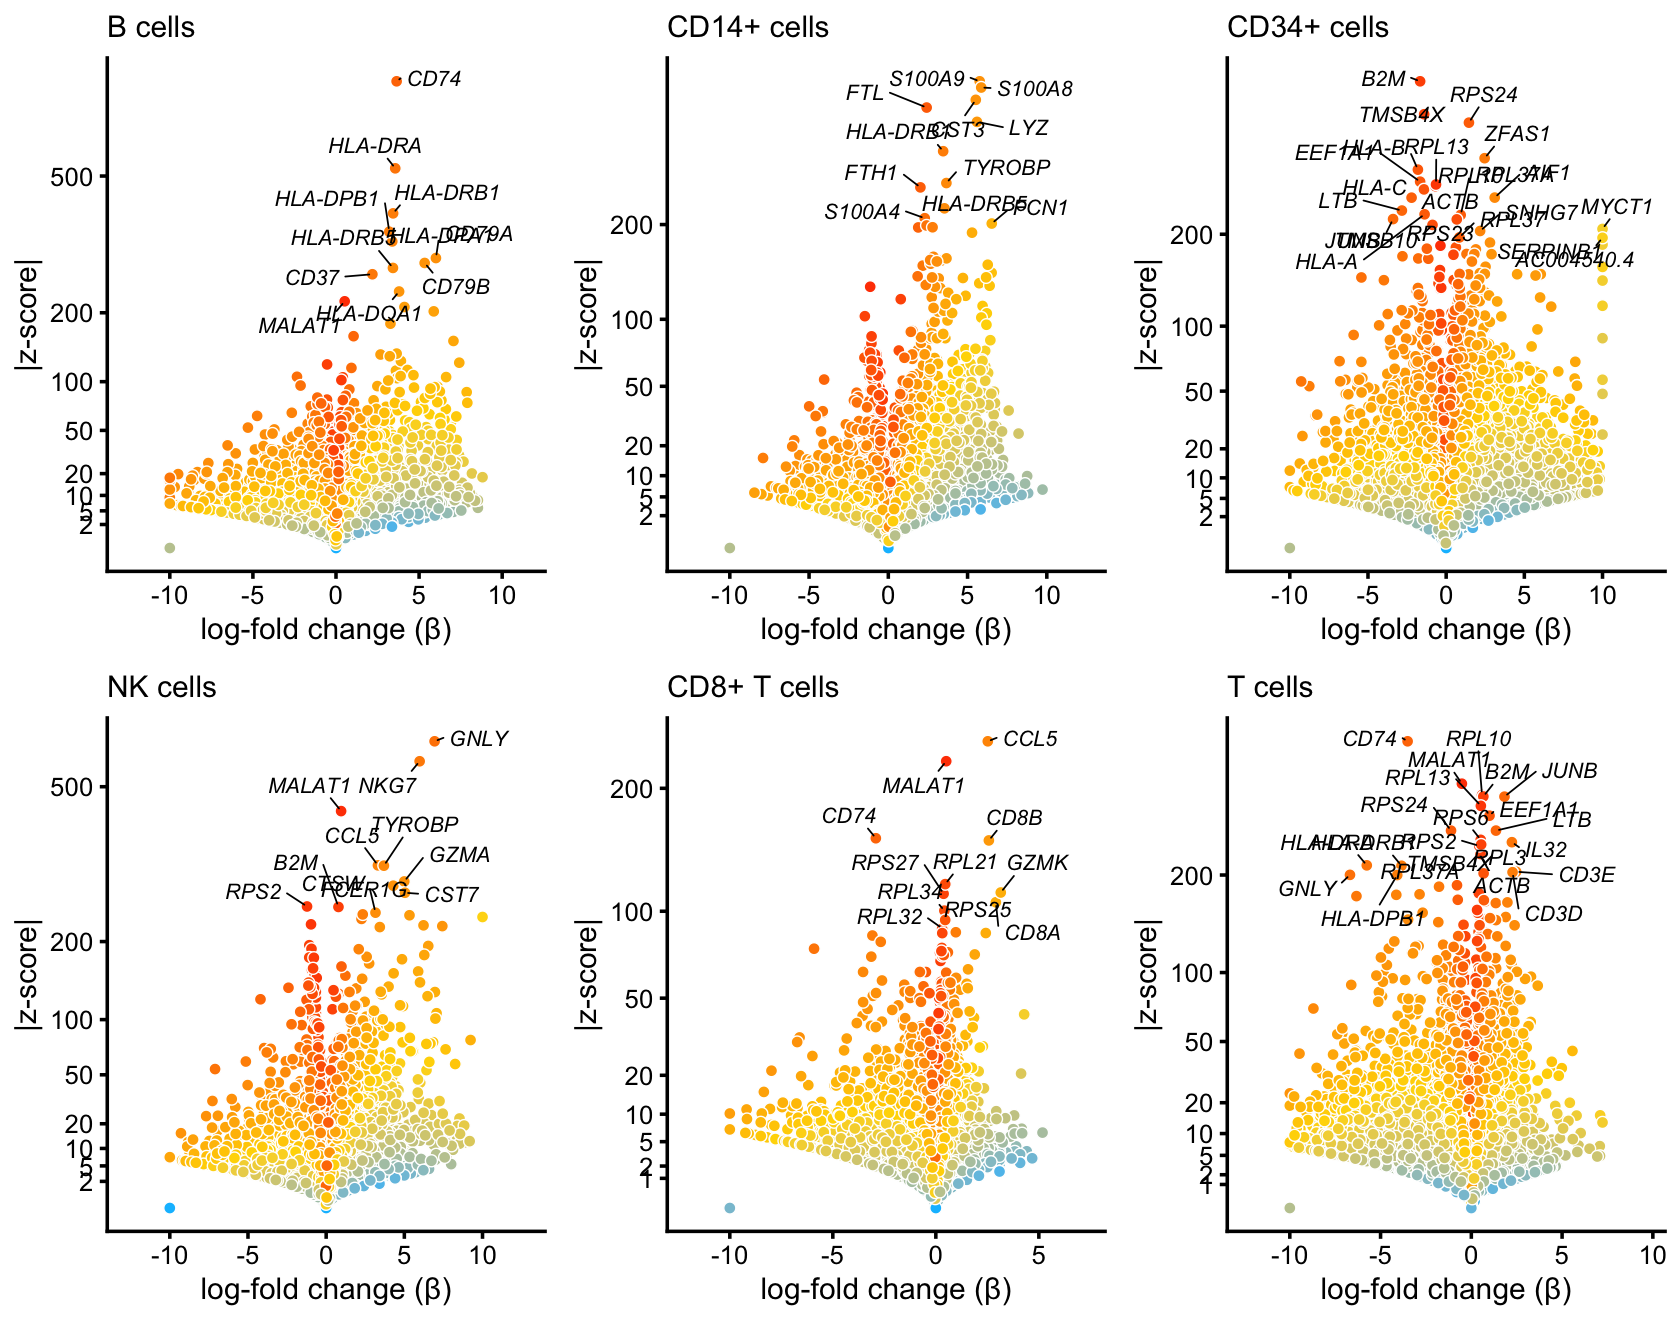
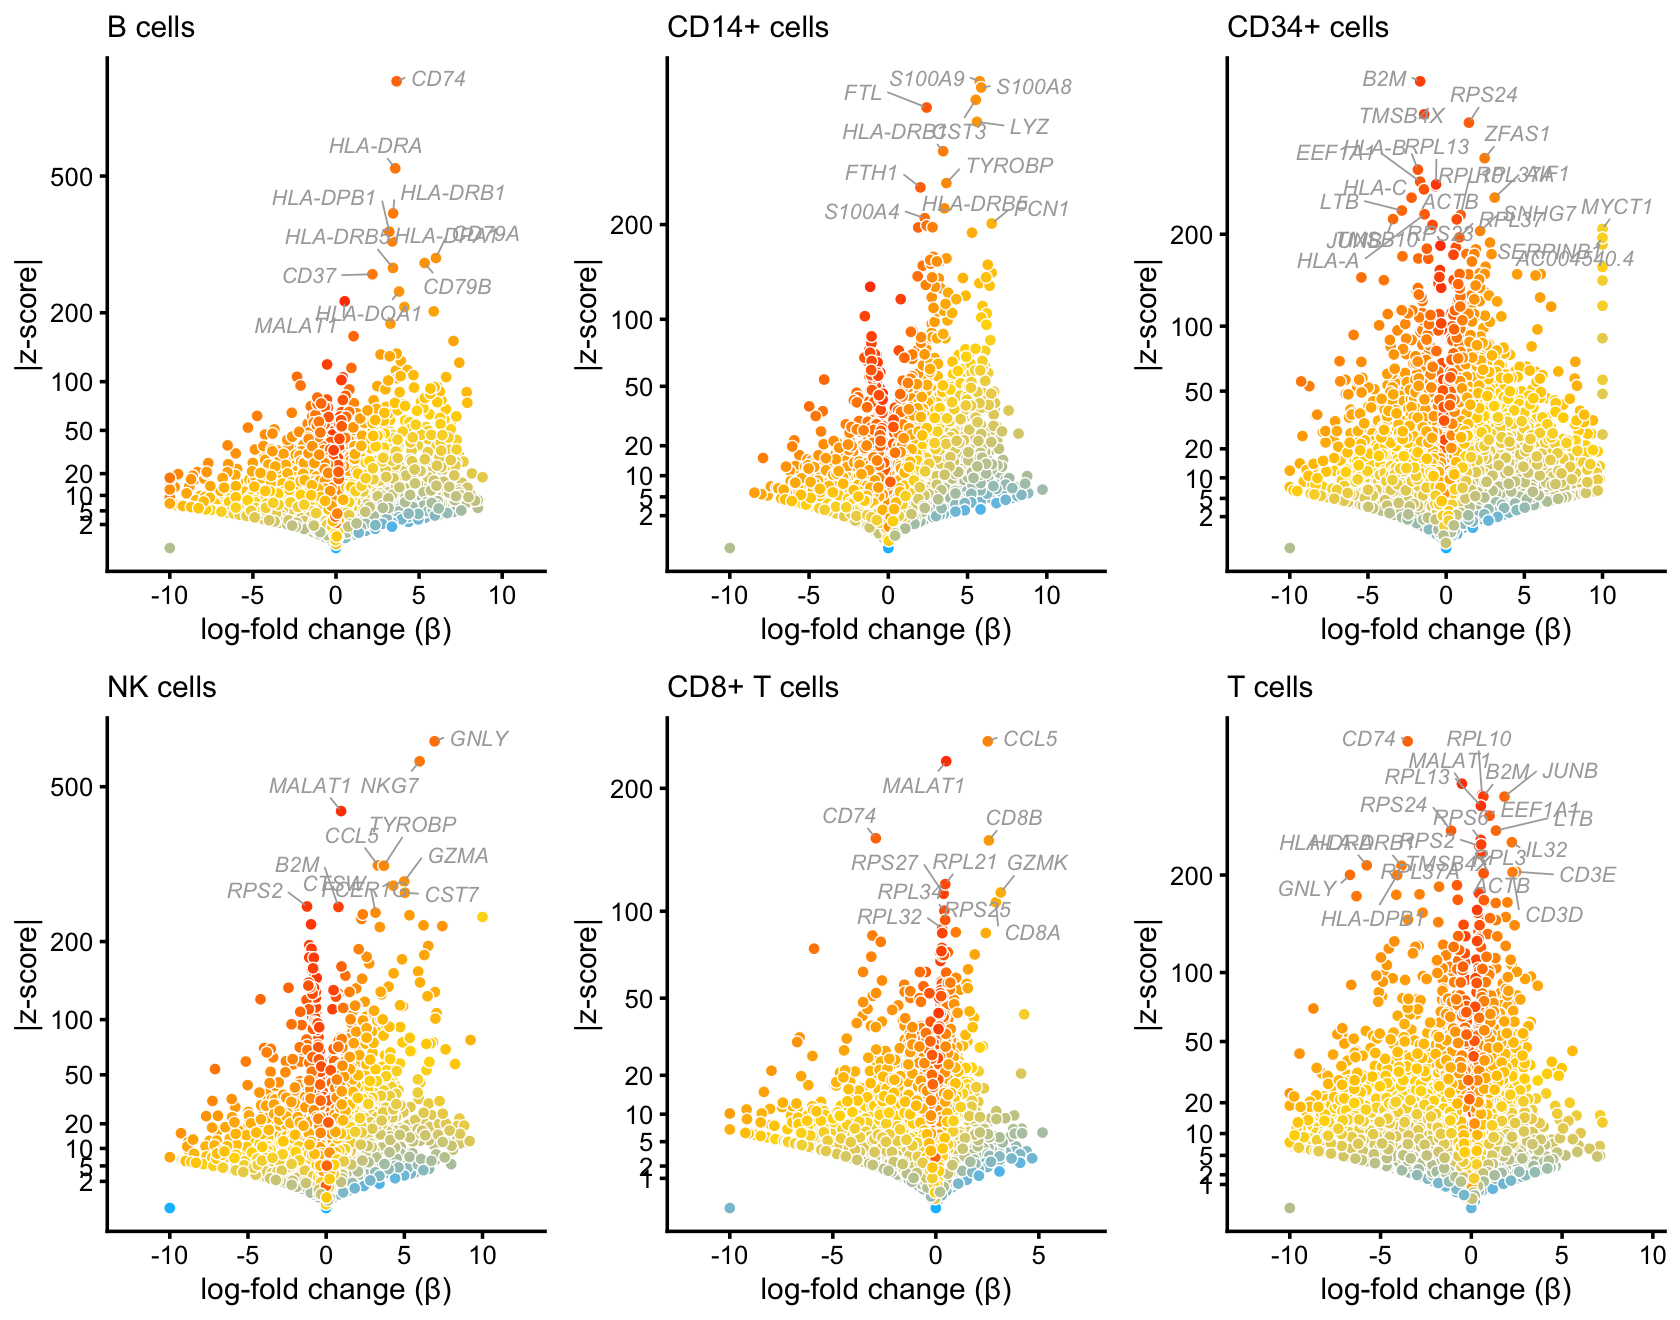
Build site.

diff --git a/docs/plots_purified_pbmc.html b/docs/plots_purified_pbmc.html
@@ -429,16 +429,16 @@ diff-count-analysis-topics
 <div class="panel panel-default">
 <div class="panel-heading">
 <p class="panel-title">
-<a data-toggle="collapse" data-parent="#workflowr-checks" href="#strongRepositoryversionstrongahrefhttpsgithubcomstephenslabsinglecelltopicstree4edefd08c545d4440ecfc1fce9c3e70dda27784btargetblank4edefd0a"> <span class="glyphicon glyphicon-ok text-success" aria-hidden="true"></span> <strong>Repository version:</strong> <a href="https://github.com/stephenslab/single-cell-topics/tree/4edefd08c545d4440ecfc1fce9c3e70dda27784b" target="_blank">4edefd0</a> </a>
+<a data-toggle="collapse" data-parent="#workflowr-checks" href="#strongRepositoryversionstrongahrefhttpsgithubcomstephenslabsinglecelltopicstree0b7339714de3e3fc87c26012b646aa1af42b06e2targetblank0b73397a"> <span class="glyphicon glyphicon-ok text-success" aria-hidden="true"></span> <strong>Repository version:</strong> <a href="https://github.com/stephenslab/single-cell-topics/tree/0b7339714de3e3fc87c26012b646aa1af42b06e2" target="_blank">0b73397</a> </a>
 </p>
 </div>
[2 lines of base64/hex data omitted]
 <div class="panel-body">
 <p>
 Great! You are using Git for version control. Tracking code development and connecting the code version to the results is critical for reproducibility.
 </p>
 <p>
-The results in this page were generated with repository version <a href="https://github.com/stephenslab/single-cell-topics/tree/4edefd08c545d4440ecfc1fce9c3e70dda27784b" target="_blank">4edefd0</a>. See the <em>Past versions</em> tab to see a history of the changes made to the R Markdown and HTML files.
+The results in this page were generated with repository version <a href="https://github.com/stephenslab/single-cell-topics/tree/0b7339714de3e3fc87c26012b646aa1af42b06e2" target="_blank">0b73397</a>. See the <em>Past versions</em> tab to see a history of the changes made to the R Markdown and HTML files.
 </p>
 <p>
 Note that you need to be careful to ensure that all relevant files for the analysis have been committed to Git prior to generating the results (you can use <code>wflow_publish</code> or <code>wflow_git_commit</code>). workflowr only checks the R Markdown file, but you know if there are other scripts or data files that it depends on. Below is the status of the Git repository when the results were generated:
@@ -463,16 +463,7 @@ Ignored files:
     Ignored:    output/pulseseq/rds/
 
 Untracked files:
-    Untracked:  .DS_Store
     Untracked:  analysis/plots_purified_pbmc_cache/
-    Untracked:  analysis/volcano_plot_purified_pbmc_bcells.html
-    Untracked:  analysis/volcano_plot_purified_pbmc_cd14.html
-    Untracked:  analysis/volcano_plot_purified_pbmc_cd34.html
-    Untracked:  analysis/volcano_plot_purified_pbmc_cd4cd8.html
-    Untracked:  analysis/volcano_plot_purified_pbmc_cd8.html
-    Untracked:  analysis/volcano_plot_purified_pbmc_dendritic.html
-    Untracked:  analysis/volcano_plot_purified_pbmc_nk.html
-    Untracked:  analysis/volcano_plot_purified_pbmc_tcells.html
     Untracked:  plots/
 
 </code></pre>
@@ -512,6 +503,40 @@ Message
 </tr>
 </thead>
 <tbody>
+<tr>
+<td>
+Rmd
+</td>
+<td>
+<a href="https://github.com/stephenslab/single-cell-topics/blob/0b7339714de3e3fc87c26012b646aa1af42b06e2/analysis/plots_purified_pbmc.Rmd" target="_blank">0b73397</a>
+</td>
+<td>
+Peter Carbonetto
+</td>
+<td>
+2021-01-29
+</td>
+<td>
+Added more volcano plots to plots_purified_pbmc analysis.
+</td>
+</tr>
+<tr>
+<td>
+html
+</td>
+<td>
+<a href="https://rawcdn.githack.com/stephenslab/single-cell-topics/42ebc62099a4d7af6134fbfea745d3d7b6cdfbf3/docs/plots_purified_pbmc.html" target="_blank">42ebc62</a>
+</td>
+<td>
+Peter Carbonetto
+</td>
+<td>
+2021-01-29
+</td>
+<td>
+Added volcano plots for FACS populations in plots_purified_pbmc
+</td>
+</tr>
 <tr>
 <td>
 Rmd
@@ -845,6 +870,17 @@ Date
 <tbody>
 <tr>
 <td>
+<a href="https://github.com/stephenslab/single-cell-topics/blob/42ebc62099a4d7af6134fbfea745d3d7b6cdfbf3/docs/figure/plots_purified_pbmc.Rmd/volcano-plots-1-1.png" target="_blank">42ebc62</a>
+</td>
+<td>
+Peter Carbonetto
+</td>
+<td>
+2021-01-29
+</td>
+</tr>
+<tr>
+<td>
 <a href="https://github.com/stephenslab/single-cell-topics/blob/a4bc59be3a7313cdcf5df4daaab580568ddcfa20/docs/figure/plots_purified_pbmc.Rmd/volcano-plots-1-1.png" target="_blank">a4bc59b</a>
 </td>
 <td>
@@ -906,10 +942,117 @@ diff_count_clusters &lt;- diff_count_clusters(samples$cluster,counts)
 </p>
 </div>
 <p>These volcano plots summarize the results of the differential expression analysis using the clusters:</p>
-<pre class="r"><code>p7 &lt;- volcano_plot(diff_count_clusters,&quot;B cells&quot;,genes$symbol,
-                   label_above_quantile = 0.998) +
+<pre class="r"><code>p7 &lt;- volcano_plot(diff_count_clusters,&quot;B&quot;,genes$symbol,
+                   label_above_quantile = 0.999) +
   guides(fill = &quot;none&quot;) +
-  ggtitle(&quot;B cells&quot;)</code></pre>
+  ggtitle(&quot;B cells&quot;)
+p8 &lt;- volcano_plot(diff_count_clusters,&quot;CD14+&quot;,genes$symbol,
+                   label_above_quantile = 0.999) +
+  guides(fill = &quot;none&quot;) +
+  ggtitle(&quot;CD14+ cells&quot;)
+p9 &lt;- volcano_plot(diff_count_clusters,&quot;CD34+&quot;,genes$symbol,
+                   label_above_quantile = 0.999) +
+  guides(fill = &quot;none&quot;) +
+  ggtitle(&quot;CD34+ cells&quot;)
+p10 &lt;- volcano_plot(diff_count_clusters,&quot;dendritic&quot;,genes$symbol,
+                    label_above_quantile = 0.999) +
+  guides(fill = &quot;none&quot;) +
+  ggtitle(&quot;dendritic cells&quot;)
+p11 &lt;- volcano_plot(diff_count_clusters,&quot;NK&quot;,genes$symbol,
+                    label_above_quantile = 0.999) +
+  guides(fill = &quot;none&quot;) +
+  ggtitle(&quot;NK cells&quot;)
+p12 &lt;- volcano_plot(diff_count_clusters,&quot;CD8+&quot;,genes$symbol,
+                    label_above_quantile = 0.999) +
+  guides(fill = &quot;none&quot;) +
+  ggtitle(&quot;CD8+ T cells&quot;)
+p13 &lt;- volcano_plot(diff_count_clusters,&quot;T&quot;,genes$symbol,
+                    label_above_quantile = 0.999) +
+  guides(fill = &quot;none&quot;) +
+  ggtitle(&quot;T cells&quot;)
+plot_grid(p7,p8,p9,p10,p11,p12,p13,nrow = 3,ncol = 3)</code></pre>
+<p><img src="figure/plots_purified_pbmc.Rmd/volcano-plots-2-1.png" width="840" style="display: block; margin: auto;" /></p>
+<p>
+<button type="button" class="btn btn-default btn-xs btn-workflowr btn-workflowr-fig" data-toggle="collapse" data-target="#fig-volcano-plots-2-1">
+Past versions of volcano-plots-2-1.png
+</button>
+</p>
+<div id="fig-volcano-plots-2-1" class="collapse">
+<div class="table-responsive">
+<table class="table table-condensed table-hover">
+<thead>
+<tr>
+<th>
+Version
+</th>
+<th>
+Author
+</th>
+<th>
+Date
+</th>
+</tr>
+</thead>
+<tbody>
+<tr>
+<td>
+<a href="https://github.com/stephenslab/single-cell-topics/blob/42ebc62099a4d7af6134fbfea745d3d7b6cdfbf3/docs/figure/plots_purified_pbmc.Rmd/volcano-plots-2-1.png" target="_blank">42ebc62</a>
+</td>
+<td>
+Peter Carbonetto
+</td>
+<td>
+2021-01-29
+</td>
+</tr>
+<tr>
+<td>
+<a href="https://github.com/stephenslab/single-cell-topics/blob/a4bc59be3a7313cdcf5df4daaab580568ddcfa20/docs/figure/plots_purified_pbmc.Rmd/volcano-plots-2-1.png" target="_blank">a4bc59b</a>
+</td>
+<td>
+Peter Carbonetto
+</td>
+<td>
+2021-01-06
+</td>
+</tr>
+<tr>
+<td>
+<a href="https://github.com/stephenslab/single-cell-topics/blob/a0b6c2b221c0b5c52edef847b0c1d655e8891a16/docs/figure/plots_purified_pbmc.Rmd/volcano-plots-2-1.png" target="_blank">a0b6c2b</a>
+</td>
+<td>
+Peter Carbonetto
+</td>
+<td>
+2021-01-06
+</td>
+</tr>
+<tr>
+<td>
+<a href="https://github.com/stephenslab/single-cell-topics/blob/04113408c52e484a058dfa1525a28dfb9f86d646/docs/figure/plots_purified_pbmc.Rmd/volcano-plots-2-1.png" target="_blank">0411340</a>
+</td>
+<td>
+Peter Carbonetto
+</td>
+<td>
+2021-01-06
+</td>
+</tr>
+<tr>
+<td>
+<a href="https://github.com/stephenslab/single-cell-topics/blob/fad8e3d9888206e882551f96333364e6203b6599/docs/figure/plots_purified_pbmc.Rmd/volcano-plots-2-1.png" target="_blank">fad8e3d</a>
+</td>
+<td>
+Peter Carbonetto
+</td>
+<td>
+2021-01-05
+</td>
+</tr>
+</tbody>
+</table>
+</div>
+</div>
 <p>Perform differential expression analysis using the multinomial topic model, after removing the dendritic cells cluster, and after merging the two T-cell topics:</p>
 <pre class="r"><code>rows &lt;- which(samples$cluster != &quot;dendritic&quot;)
 fit_merged &lt;- select_loadings(fit,loadings = rows)
@@ -1024,7 +1167,7 @@ plot_grid(p10,p11,p12,p13,p14,nrow = 3,ncol = 2)</code></pre>
 # [1] stats     graphics  grDevices utils     datasets  methods   base     
 # 
 # other attached packages:
-# [1] cowplot_1.0.0     ggrepel_0.9.0     ggplot2_3.3.0     fastTopics_0.4-26
+# [1] cowplot_1.0.0     ggrepel_0.9.0     ggplot2_3.3.0     fastTopics_0.4-29
 # [5] Matrix_1.2-18    
 # 
 # loaded via a namespace (and not attached):
